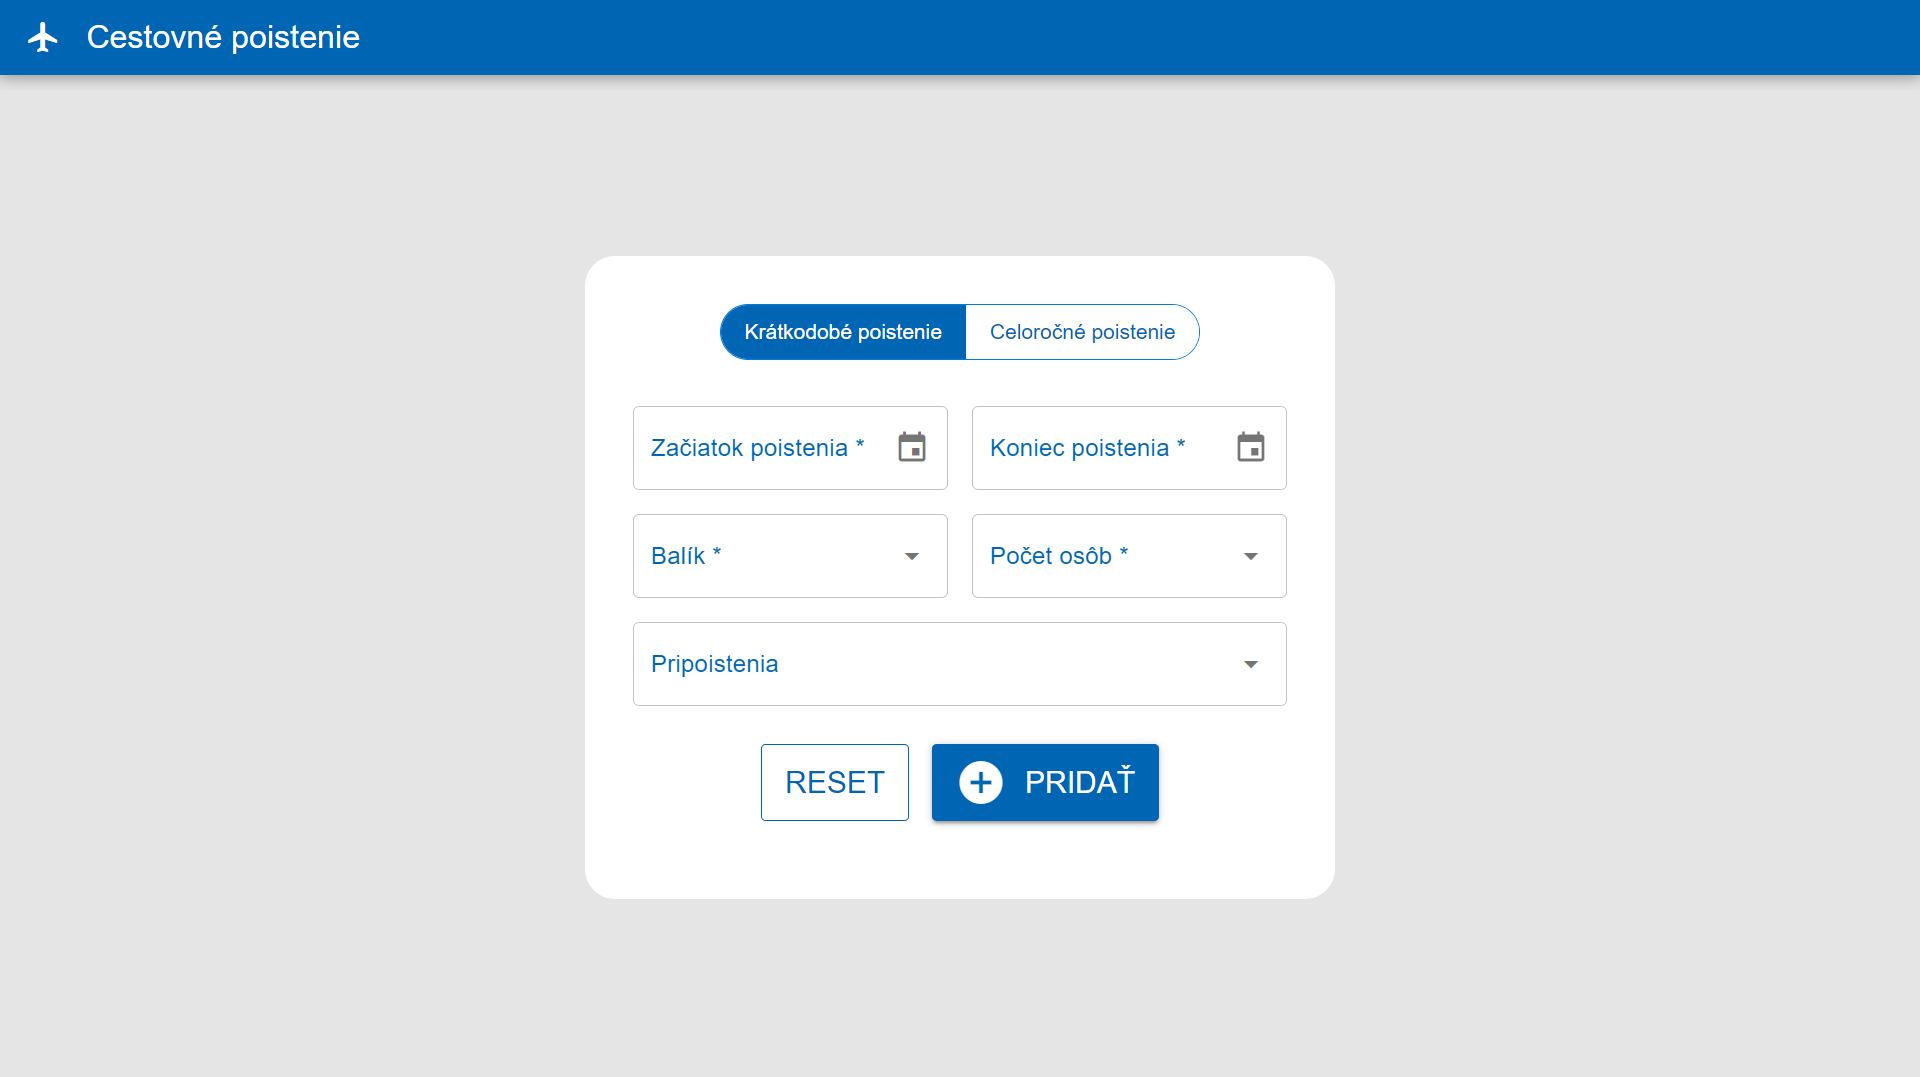
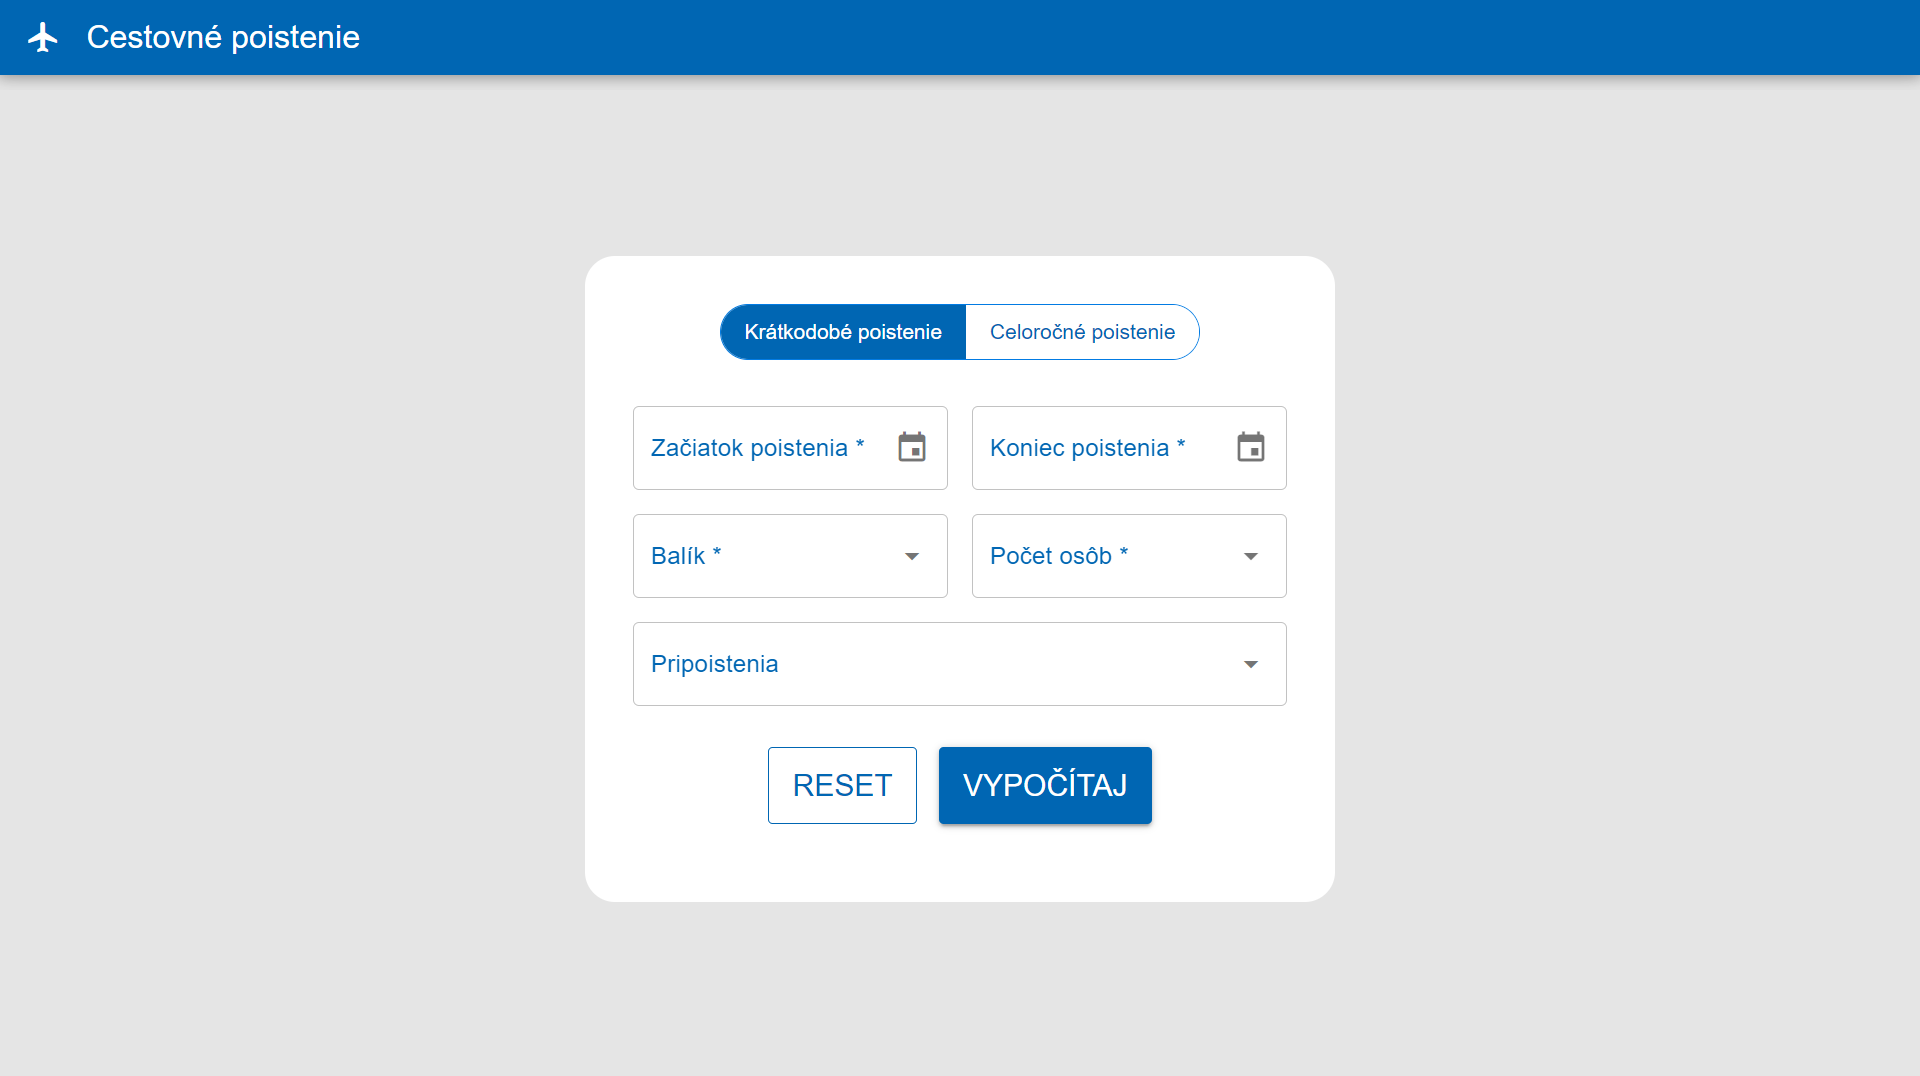
zmena label na btn

diff --git a/src/pages/IndexPage.vue b/src/pages/IndexPage.vue
@@ -149,7 +149,7 @@
               type="reset"
               color="primary"
             />
-            <q-btn size="lg" label="pridať" icon="add_circle" type="submit" color="primary"/>
+            <q-btn size="lg" label="Vypočítaj" type="submit" color="primary"/>
           </div>
         </q-form>
         <div class="text-center vysledok">
